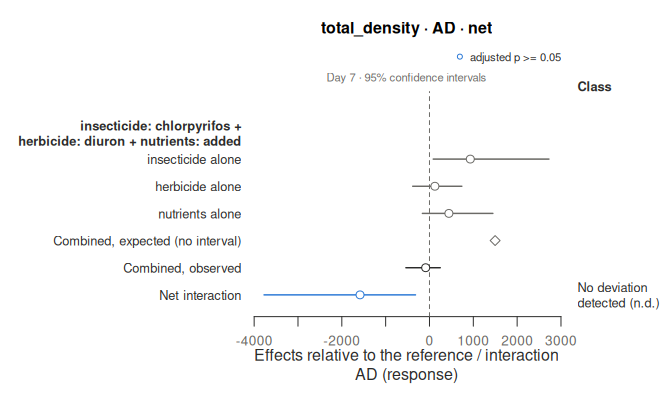
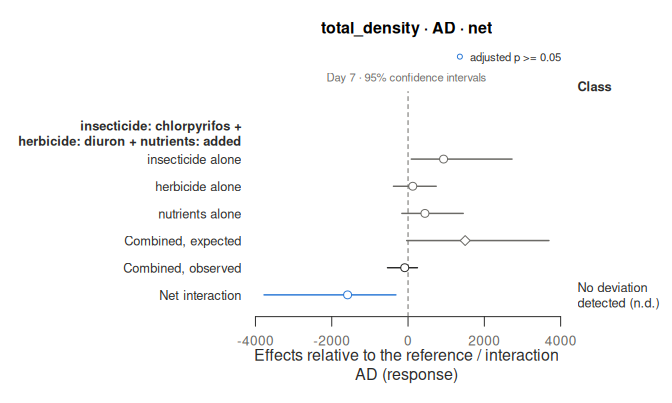
Render README

diff --git a/README.md b/README.md
@@ -1,5 +1,5 @@
 
-<!-- README.md is generated from README.Rmd. Edit README.Rmd and render it with rmarkdown::render("README.Rmd") after installing the package. -->
+<!-- README.md and its figures are generated from README.Rmd on GitHub (.github/workflows/render-readme.yaml) when the package changes: edit README.Rmd only. -->
 
 # must <img src="man/figures/logo.png" align="right" height="160" alt="" />
 
@@ -40,6 +40,21 @@ three decisions behind any claim of synergism or antagonism:
     the net deviation from the single-stressor effects from the pure
     highest-order interaction. `classify_interactions()` gives the
     directional classes of Piggott et al. (2015).
+
+For communities, `estimate_community()` tests the effects of the
+stressors on the total abundance and the richness of the taxa, from the
+models of each taxon, against the compositional null model of Thompson
+et al. (2018), which adds the effects of the stressors on each taxon,
+and against the additive and multiplicative null models applied to the
+properties themselves. `test_community()` tests the multiplicative null
+model, or the additive one truncated at zero, on all the taxa at once,
+with the multivariate generalised linear models that Szöcs et al. (2015)
+proposed for mesocosm experiments: counts (package mvabund), with the
+sampling effort when they are densities, or densities and biomass with
+Tweedie models. `estimate_interactions()` can also test AD and MU by
+resampling whole experimental units under each null model
+(`inference = "resampling"`), instead of from the distribution of the
+fitted models.
 
 `report_interactions()` then writes the methods of the analysis, with
 the works cited, and a table of every decision behind it, from the
@@ -207,10 +222,10 @@ estimates differ slightly because, with random effects, the corrected
 ones come from the REML refit.)
 
 `plot()` shows how an interaction arises: the effect of each stressor
-alone, the combined effect that the null model expects from them, the
-combined effect observed and the interaction, which is the difference
-between the last two, with its class (see below). The three-stressor set
-on day 7, under AD:
+alone, the combined effect that the null model expects from them (with
+its interval), the combined effect observed and the interaction, which
+is the difference between the last two, with its class (see below). The
+three-stressor set on day 7, under AD:
 
 ``` r
 trio <- unique(est$estimates$set_id[est$estimates$order == 3L])
@@ -248,20 +263,21 @@ settings of the objects; this is its paragraph on the models:
 ``` r
 report <- report_interactions(est, classes = cls)
 cat(strwrap(report$methods[[2]], width = 100), sep = "\n")
-#> The analysis was run with the R package must 0.3.0 (Amador Crespo & Rico 2026) in R 4.6.2 (R Core
-#> Team 2026). Each response (total_density, cyclopoida and daphnia) was modelled with a generalized
-#> linear mixed model with one mean per treatment combination and sampling time (a cell-means model)
-#> and a random intercept for each mesocosm, fitted by maximum likelihood with glmmTMB 1.1.15.2
-#> (Brooks et al. 2017). The error distribution was chosen among candidates suited to the values of
-#> each response (Gaussian (identity link), Gaussian (log link), Gamma (log link) and lognormal (log
-#> link), for total_density; Gaussian (identity link), Gaussian (log link) and Tweedie (log link), for
-#> cyclopoida and daphnia): the candidate that converged with a positive-definite Hessian and had the
-#> lowest AIC was selected. The models selected were Gamma (log link) for total_density; Tweedie (log
-#> link) for cyclopoida and daphnia. The means of the treatment combinations with only zeros (6 for
-#> daphnia) were fixed at the boundary of the link function; a contrast that compares such a
-#> combination with its expectation was tested from the probability of observing only zeros under that
-#> expectation, and contrasts that need such a combination to compute it were not estimated. For the
-#> inference, the selected models were refitted by restricted maximum likelihood (REML).
+#> The analysis was run with the R package must 0.3.0.9000 (Amador Crespo & Rico 2026) in R 4.6.2 (R
+#> Core Team 2026). Each response (total_density, cyclopoida and daphnia) was modelled with a
+#> generalized linear mixed model with one mean per treatment combination and sampling time (a
+#> cell-means model) and a random intercept for each mesocosm, fitted by maximum likelihood with
+#> glmmTMB 1.1.15.2 (Brooks et al. 2017). The error distribution was chosen among candidates suited to
+#> the values of each response (Gaussian (identity link), Gaussian (log link), Gamma (log link) and
+#> lognormal (log link), for total_density; Gaussian (identity link), Gaussian (log link) and Tweedie
+#> (log link), for cyclopoida and daphnia): the candidate that converged with a positive-definite
+#> Hessian and had the lowest AIC was selected. The models selected were Gamma (log link) for
+#> total_density; Tweedie (log link) for cyclopoida and daphnia. The means of the treatment
+#> combinations with only zeros (6 for daphnia) were fixed at the boundary of the link function; a
+#> contrast that compares such a combination with its expectation was tested from the probability of
+#> observing only zeros under that expectation, and contrasts that need such a combination to compute
+#> it were not estimated. For the inference, the selected models were refitted by restricted maximum
+#> likelihood (REML).
 ```
 
 `report$decisions` lists every decision with its argument, the value
@@ -453,6 +469,18 @@ Schäfer, R. B., & Piggott, J. J. (2018). Advancing understanding and
 prediction in multiple stressor research through a mechanistic basis for
 null models. *Global Change Biology*, 24(5), 1817–1826.
 <https://doi.org/10.1111/gcb.14073>
+
+Szöcs, E., Van den Brink, P. J., Lagadic, L., Caquet, T., Roucaute, M.,
+Auber, A., Bayona, Y., Liess, M., Ebke, P., Ippolito, A., ter Braak, C.
+J. F., Brock, T. C. M., & Schäfer, R. B. (2015). Analysing
+chemical-induced changes in macroinvertebrate communities in aquatic
+mesocosm experiments: a comparison of methods. *Ecotoxicology*, 24,
+760–769. <https://doi.org/10.1007/s10646-015-1421-0>
+
+Thompson, P. L., MacLennan, M. M., & Vinebrooke, R. D. (2018). An
+improved null model for assessing the net effects of multiple stressors
+on communities. *Global Change Biology*, 24(1), 517–525.
+<https://doi.org/10.1111/gcb.13852>
 
 ## Funding
 
